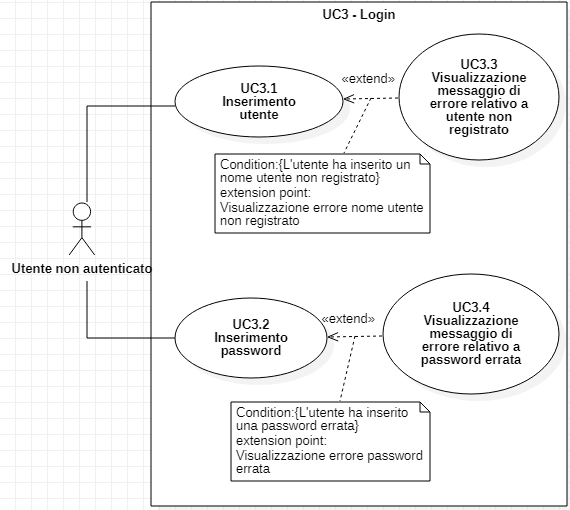
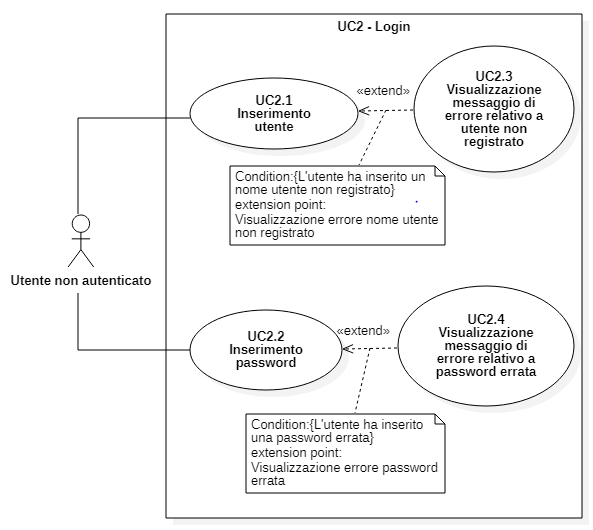
Fixato numero dei casi d'uso e diagramma

Changed region(s): [[0.0, 0.0, 1.0, 1.0], [0.4175, 0.5588, 0.4772, 0.5882], [0.686, 0.5588, 0.7158, 0.5882]]

diff --git a/esterni/analisi_dei_requisiti/res/casi_duso/sez322_autenticazione.tex b/esterni/analisi_dei_requisiti/res/casi_duso/sez322_autenticazione.tex
@@ -1,6 +1,6 @@
 
  \includegraphics{res/img/caso_duso_login.png}
-\subsection{UC3 - Login}
+\subsection{UC2 - Login}
 \begin{itemize}
 	\item \textbf{Attori Primari:} utente non autenticato;
 	\item \textbf{Descrizione:} l'utente tenta di autenticarsi usando le sue credenziali;
@@ -9,7 +9,7 @@
 	\item \textbf{Post-condizione:} l'utente si autentica con successo, l'utente viene identificato dal sistema nel ruolo di amministratore o operatore. A seconda del ruolo vengono rese disponibili diverse funzionalità.
 \end{itemize}
 
-\subsubsection{UC3.1 Inserimento nome utente}
+\subsubsection{UC2.1 Inserimento nome utente}
 \begin{itemize}
 	\item \textbf{Attori Primari:} utente non autenticato;
 	\item \textbf{Descrizione:} al fine di potersi autenticare, l'utente è tenuto ad inserire il suo nome utente, campo obbligatorio;
@@ -18,7 +18,7 @@
 	\item \textbf{Post-condizione:} l'utente compila il campo con il proprio nome utente.
 \end{itemize}	
 
-\subsubsection{UC3.2 Inserimento password}
+\subsubsection{UC2.2 Inserimento password}
 \begin{itemize}
 	\item \textbf{Attori Primari:} utente non autenticato;
 	\item \textbf{Descrizione:} al fine di potersi autenticare, l'utente è tenuto ad inserire la sua password, campo obbligatorio;
@@ -27,7 +27,7 @@
 	\item \textbf{Post-condizione:} l'utente compila il campo con la propria password.
 \end{itemize}	
 
-\subsubsection{UC3.3 Visualizzazione messaggio di errore relativo a utente non registrato}
+\subsubsection{UC2.3 Visualizzazione messaggio di errore relativo a utente non registrato}
 \begin{itemize}
 	\item \textbf{Attori Primari:} utente non autenticato;
 	\item \textbf{Descrizione:} l'utente visualizza un messaggio d'errore dovuto al fatto che ha tentato il login con un nome utente non registrato;
@@ -36,7 +36,7 @@
 	\item \textbf{Post-condizione:} viene visualizzato un messaggio d'errore per notificare l'utente che un amministratore non ha registrato il suo nome utente nel sistema.
 \end{itemize}
 
-\subsubsection{UC3.4 Visualizzazione messaggio di errore relativo a password errata}
+\subsubsection{UC2.4 Visualizzazione messaggio di errore relativo a password errata}
 \begin{itemize}
 	\item \textbf{Attori Primari:} utente non autenticato;
 	\item \textbf{Descrizione:} l'utente visualizza un messaggio d'errore dovuto al fatto che ha tentato il login con una password errata;
@@ -45,7 +45,7 @@
 	\item \textbf{Post-condizione:} viene visualizzato un messaggio d'errore per notificare l'utente ha inserito una password sbagliata.
 \end{itemize}
 
-\subsection{UC4 - Logout}
+\subsection{UC3 - Logout}
 \begin{itemize}
 	\item \textbf{Attori Primari:} utente autenticato;
 	\item \textbf{Descrizione:} l'utente richiede di eseguire il logout dalla piattaforma. L'utente è quindi tenuto a confermare la procedura di logout;
